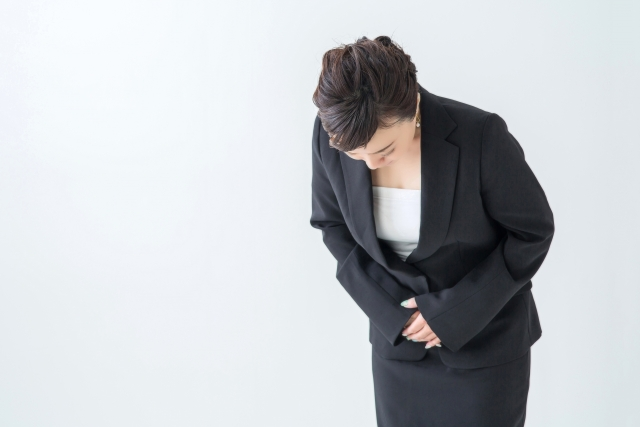
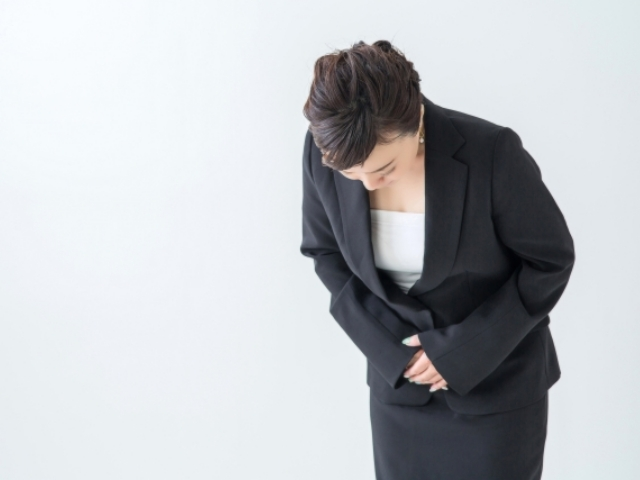
リンク追加 画像サイズ調整 #210

diff --git a/docs/virtual_office/index.html b/docs/virtual_office/index.html
@@ -113,7 +113,8 @@
     <p class="lead">ブランド力のある「港区南青山」の住所を4,800円からご利用いただけます。<br>
       法人登記も可能です。<br>
       〒107-0062 東京都港区南青山3丁目15-9 MINOWA表参道3F<br>
-      03-6885-6140
+      03-6885-6140<br><br>
+      <a href="/whats_virtual_office/" class="btn btn-outline-light" href="#" role="button">　バーチャルオフィスとは何か？</a><br>
     </p>
     <div class="fixed-bottom mb-5">
       <button type="button" class="btn btn-primary btn-lg mx-auto nowrap top-button text-white top-button d-block" onclick="countClickByGa();" data-toggle="modal" data-target="#inquiryFormModal">バーチャルオフィス<wbr>オンライン説明会予約</button>
@@ -146,7 +147,7 @@
     <div class="row">
       <div class="col-md-4 d-flex">
         <div class="card mb-4 border border-0">
-          <img src="/img/office.jpg" height="235" alt="" class="border card-img-top">
+          <img src="/img/office2.jpg" alt="" class="border card-img-top">
           <div class="card-body">
             <h3 class="card-title">住所貸し</h3>
             <p class="card-text mb-lg-4">お客様のお名刺やホームページ等に、「港区南青山」のご住所をご利用頂けます。<br>
@@ -167,7 +168,7 @@
       </div>
       <div class="col-md-4 d-flex">
         <div class="card mb-4 border border-0">
-          <img src="/img/touki.jpg" height="235" alt="" class="border card-img-top">
+          <img src="/img/touki.jpg" alt="" class="border card-img-top">
           <div class="card-body">
             <h3 class="card-title">法人登記</h3>
             <p class="card-text mb-lg-4">法人登記の際に、お客様の本店住所として、「港区南青山」のご住所をご利用頂けます。<br>
@@ -277,7 +278,7 @@
             <p class="card-text mb-lg-4">カフェではキャッシュレス対応を行っています。</p>
           </div>
         </div>
-      </div>    
+      </div>
     </div>
     <div class="row">
       <div class="col-md-10 offset-md-1">
